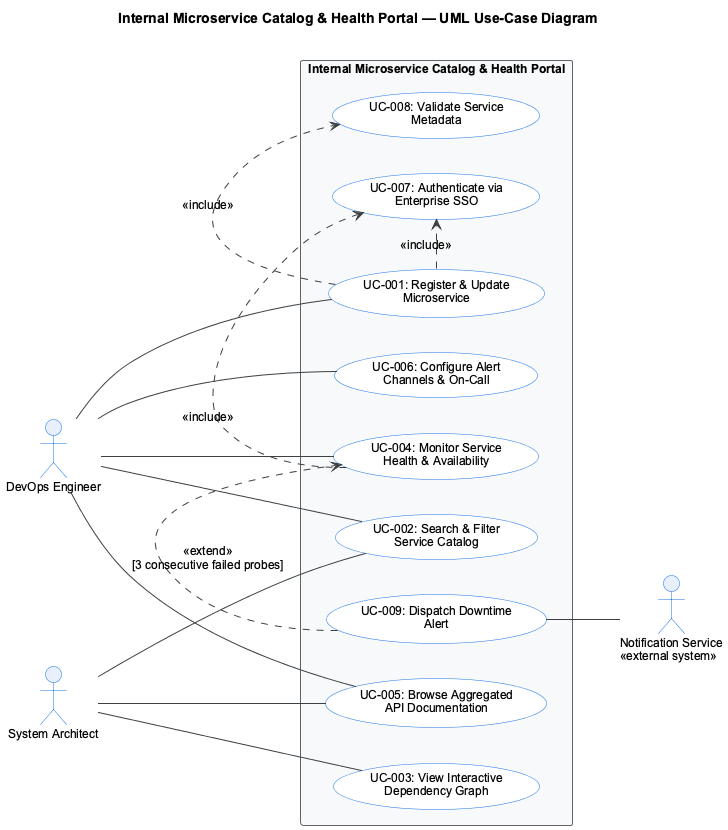
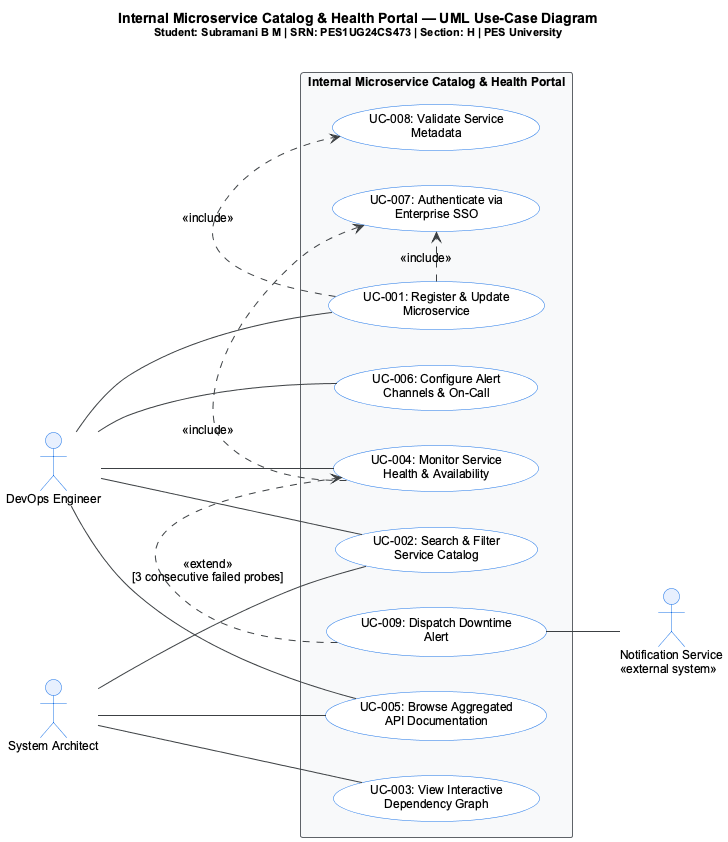
Add student information: Subramani B M, SRN: PES1UG24CS473, Section: H across all deliverables

diff --git a/use_case_flow_specification.md b/use_case_flow_specification.md
@@ -1,13 +1,20 @@
 # Use-Case Flow Specification
 
-## Use Case: Monitor Service Health (UC-004 / FR-001)
+## Problem Statement #42 — Internal Microservice Catalog & Health Portal
+
+**Student Name:** Subramani B M &nbsp;|&nbsp; **SRN:** PES1UG24CS473 &nbsp;|&nbsp; **Section:** H  
+**Course:** Software Engineering Lab 1 — Department of CSE, PES University  
+
+---
+
+### Use Case: Monitor Service Health (UC-004 / FR-001)
 
 | Field | Detail |
 |-------|--------|
 | **Use-Case ID** | UC-004 |
-| **Use-Case Name** | Monitor Service Health |
+| **Use-Case Name** | Monitor Service Health & Availability |
 | **Primary Actor** | DevOps Engineer |
-| **Supporting Actor** | Notification Service (External) |
+| **Supporting Actor** | Notification Service (External System) |
 | **Related Requirements** | FR-001, FR-004, NFR-002 |
 | **Description** | The system continuously pings registered microservice health endpoints at configurable intervals (default 30 s), computes rolling 24-hour availability, and dispatches downtime alerts when an outage is detected. |
 
@@ -15,13 +22,13 @@
 
 ### Preconditions
 
-1. The DevOps Engineer is authenticated via the enterprise SSO (OAuth 2.0 / SAML).
-2. At least one microservice is registered in the catalog with a valid health-check endpoint URL.
-3. Alert notification channels (email, Slack, webhook) have been configured for the microservice's on-call contacts.
+1. The DevOps Engineer is authenticated via enterprise SSO (OAuth 2.0 / SAML).
+2. At least one microservice is registered in the catalog with a valid HTTPS health-check endpoint URL.
+3. Alert notification channels (Email, Slack, Webhook) have been configured for the microservice's on-call contacts.
 
 ### Postconditions
 
-1. The health status of each monitored microservice is updated and visible on the portal dashboard.
+1. The health status of each monitored microservice is updated and visible on the portal dashboard in real-time.
 2. Rolling 24-hour availability percentages are recalculated and displayed.
 3. If an outage was detected, a downtime event is recorded in the system's incident log and alert notifications have been dispatched.
 
@@ -31,12 +38,12 @@
 
 | Step | Actor / System | Action |
 |------|---------------|--------|
-| 1 | **DevOps Engineer** | Navigates to the Health Monitoring dashboard and selects a microservice (or group) to monitor. |
+| 1 | **DevOps Engineer** | Navigates to the Health Monitoring dashboard and selects a microservice (or service group) to monitor. |
 | 2 | **System** | Validates the engineer's SSO session. *(«include» Authenticate via Enterprise SSO)* |
-| 3 | **System** | Retrieves the health-check endpoint URL and configured ping interval for the selected microservice(s) from the catalog. |
+| 3 | **System** | Retrieves the health-check endpoint URL and configured ping interval (default 30 s) for the selected microservice(s) from the catalog. |
 | 4 | **System** | Sends an HTTPS health probe (GET request over TLS 1.2+) to each microservice's health endpoint. |
 | 5 | **System** | Receives a `200 OK` response within the timeout window (default 5 s). Records the probe result as **Healthy**. |
-| 6 | **System** | Updates the microservice's status on the dashboard to **Healthy** with a timestamp of the last successful probe. |
+| 6 | **System** | Updates the microservice's status on the dashboard to **Healthy** with the timestamp of the last successful probe. |
 | 7 | **System** | Recalculates and displays the rolling 24-hour availability percentage for the microservice. |
 | 8 | **System** | Waits for the configured interval (default 30 s) and returns to **Step 4** for the next probe cycle. |
 | 9 | **DevOps Engineer** | Views real-time health status, availability trends, and historical uptime data on the dashboard. |

diff --git a/README.md b/README.md
@@ -2,6 +2,9 @@
 
 **Course:** Software Engineering Lab 1 — Requirements Engineering & UML Use-Case Modelling  
 **Department:** Dept. of CSE, PES University  
+**Student Name:** Subramani B M  
+**SRN:** PES1UG24CS473  
+**Section:** H  
 **Domain:** Developer Tools & IT Operations  
 **Target Stakeholders / Actors:** DevOps Engineer, System Architect  
 
@@ -33,7 +36,7 @@ An enterprise developer portal mapping microservice dependencies, aggregating AP
 
 ```
 .
-├── README.md                      # Project overview & deliverable index
+├── README.md                      # Project overview, student info & deliverable index
 ├── requirements.md                # 5 FRs + 2 NFRs with all 6 required attributes
 ├── use_case_diagram.png           # Rendered UML Use-Case Diagram
 ├── use_case_diagram.puml          # PlantUML source code for Use-Case Diagram

diff --git a/requirements.md b/requirements.md
@@ -2,6 +2,9 @@
 
 ## Problem Statement #42 — Internal Microservice Catalog & Health Portal
 
+**Student Name:** Subramani B M &nbsp;|&nbsp; **SRN:** PES1UG24CS473 &nbsp;|&nbsp; **Section:** H  
+**Course:** Software Engineering Lab 1 — Department of CSE, PES University  
+
 ---
 
 ## 1. Functional Requirements (FR-001 to FR-005)
